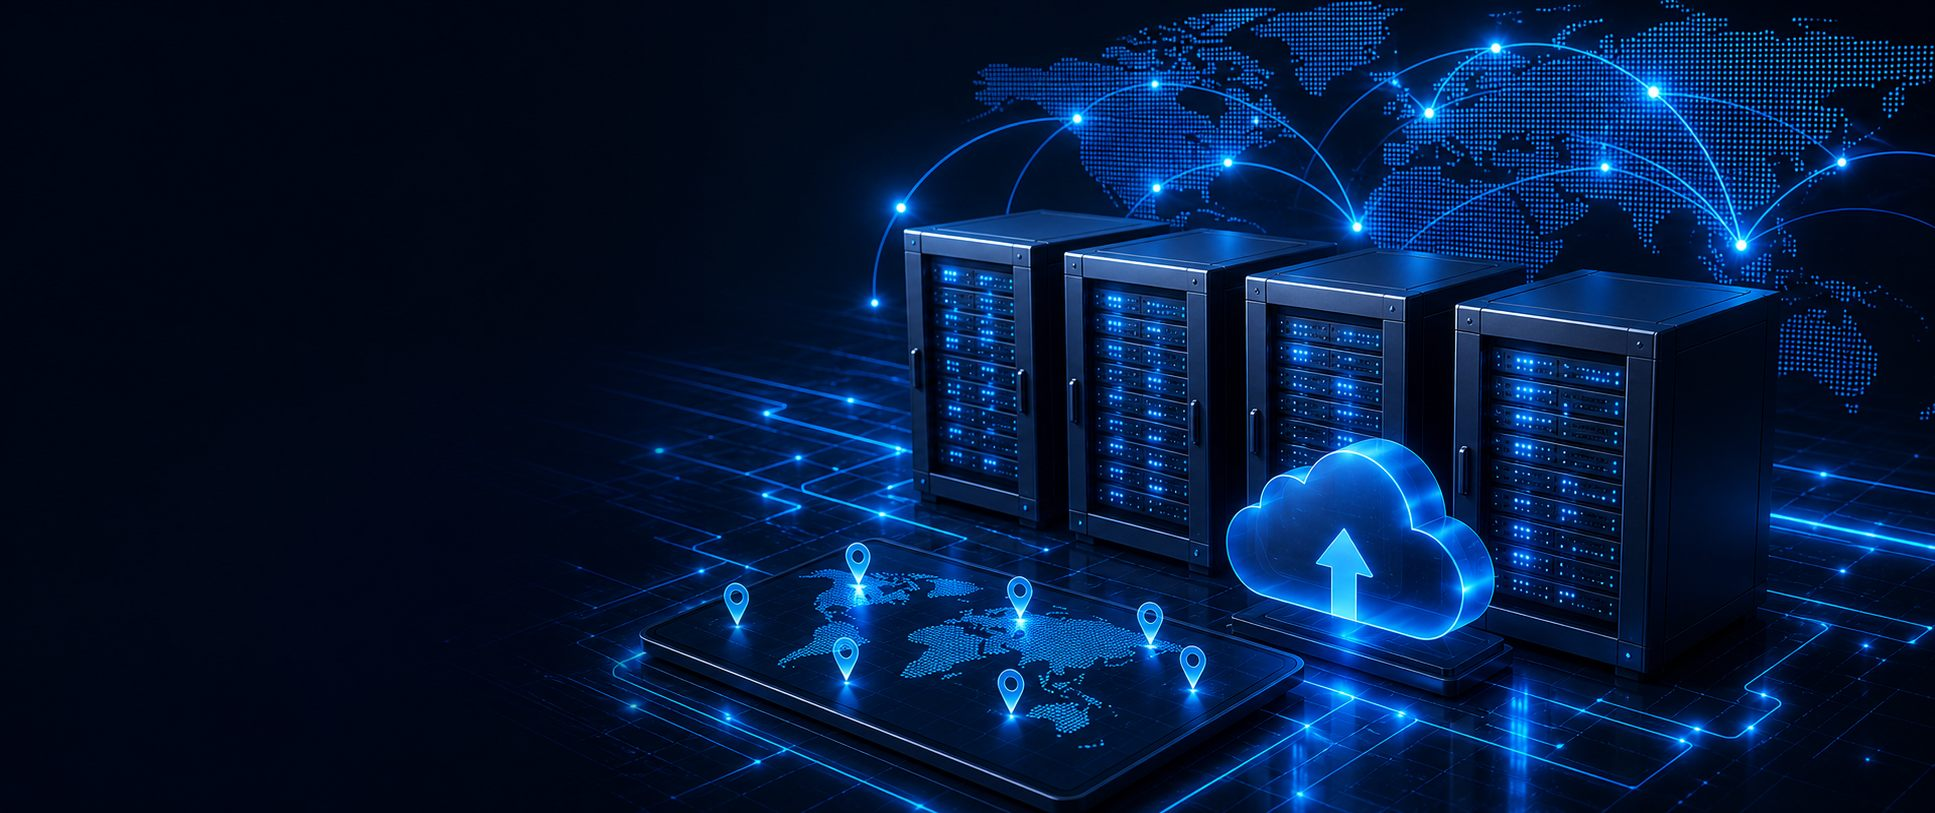
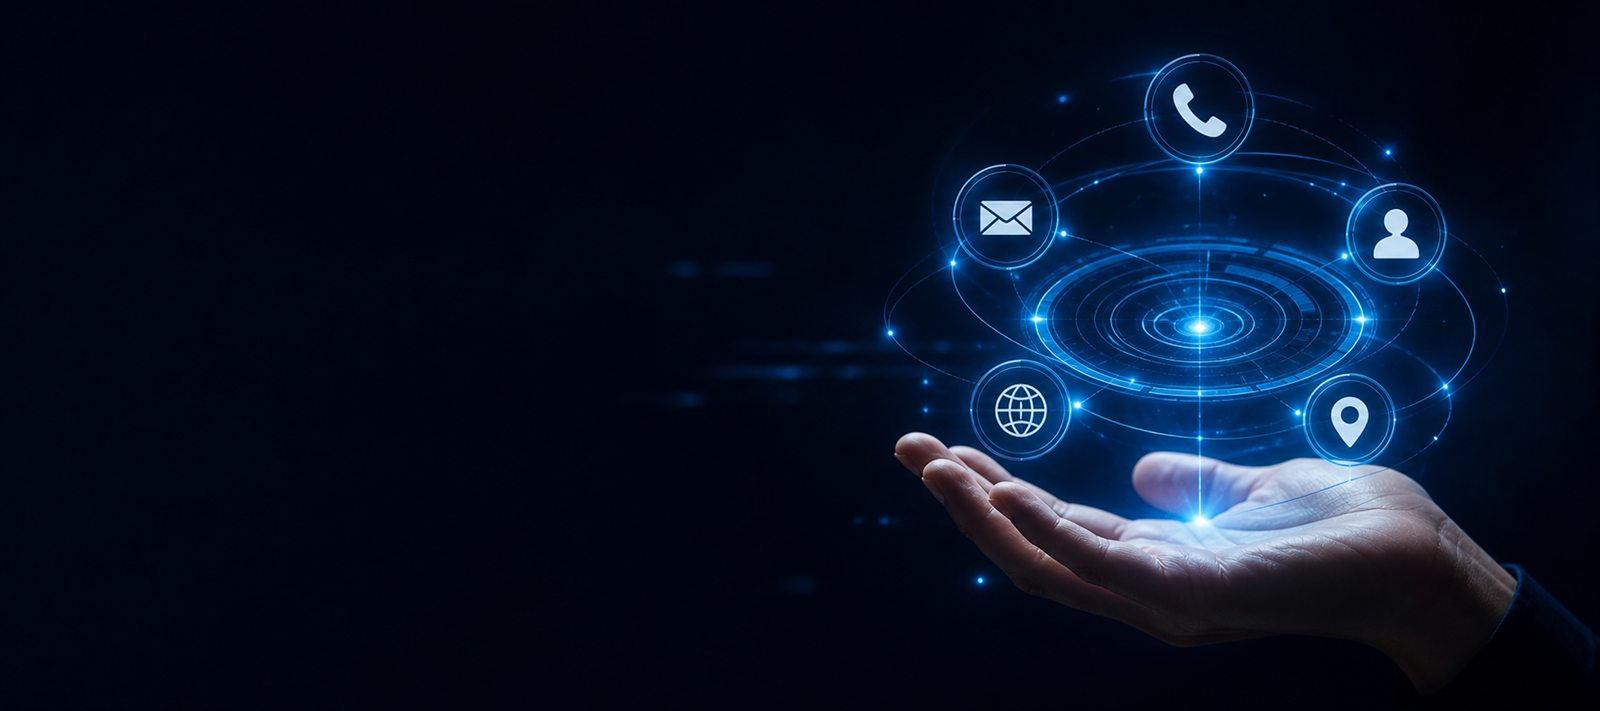
Modified contact us page

diff --git a/src/pages/ContactUsPage.css b/src/pages/ContactUsPage.css
@@ -975,9 +975,9 @@
   width: 720px;
   height: 580px;
   background:
-    radial-gradient(circle at 54% 48%, rgba(0, 210, 255, 0.3), transparent 42%),
-    radial-gradient(circle at 18% 68%, rgba(62, 220, 176, 0.18), transparent 28%),
-    radial-gradient(circle at 78% 18%, rgba(62, 143, 255, 0.24), transparent 34%);
+    radial-gradient(circle at 68% 54%, rgba(46, 188, 255, 0.2), transparent 40%),
+    radial-gradient(circle at 80% 30%, rgba(125, 211, 252, 0.16), transparent 28%),
+    radial-gradient(circle at 52% 68%, rgba(0, 210, 255, 0.12), transparent 26%);
   filter: blur(82px);
 }
 
@@ -993,8 +993,8 @@
   inset: 0;
   z-index: 2;
   background:
-    linear-gradient(90deg, rgba(2, 7, 19, 0.94) 0%, rgba(2, 7, 19, 0.76) 28%, rgba(2, 7, 19, 0.1) 55%, rgba(2, 7, 19, 0) 100%),
-    linear-gradient(180deg, rgba(2, 7, 19, 0.18), rgba(2, 7, 19, 0.22));
+    linear-gradient(90deg, rgba(2, 7, 19, 0.97) 0%, rgba(2, 7, 19, 0.88) 28%, rgba(2, 7, 19, 0.18) 58%, rgba(2, 7, 19, 0.04) 100%),
+    linear-gradient(180deg, rgba(2, 7, 19, 0.12), rgba(2, 7, 19, 0.22));
 }
 
 .contact-render-image {
@@ -1002,10 +1002,25 @@
   inset: 0;
   width: 100%;
   height: 100%;
-  object-fit: cover;
-  object-position: center right;
+  object-fit: contain;
+  object-position: right center;
   user-select: none;
-  filter: saturate(1.08) contrast(1.04);
+  filter: saturate(1.02) contrast(1.06) brightness(0.92);
+  transform: scale(1) translate3d(0, 0, 0);
+  transform-origin: 72% 54%;
+  will-change: transform;
+  animation: contactHeroFloat 10s ease-in-out infinite;
+}
+
+@keyframes contactHeroFloat {
+  0%,
+  100% {
+    transform: scale(1) translate3d(0, 0, 0);
+  }
+
+  50% {
+    transform: scale(1.035) translate3d(-0.8%, -0.4%, 0);
+  }
 }
 
 .contact-rack-dots {
@@ -2617,9 +2632,13 @@
   }
 
   .contact-hero {
-    min-height: auto;
+    min-height: 100svh;
     padding: 98px 20px 48px;
-    gap: 28px;
+    gap: 18px;
+  }
+
+  .hero-content {
+    z-index: 3;
   }
 
   .contact-info-section,
@@ -2692,7 +2711,31 @@
   }
 
   .contact-stage {
-    height: 340px;
+    height: 220px;
+  }
+
+  .contact-stage-showcase {
+    position: absolute;
+    inset: 0;
+    width: auto;
+    margin-top: 0;
+    border-radius: 0;
+    background: transparent;
+    border: none;
+    box-shadow: none;
+  }
+
+  .contact-render-scene::before {
+    background:
+      linear-gradient(180deg, rgba(2, 7, 19, 0.55) 0%, rgba(2, 7, 19, 0.1) 40%, rgba(2, 7, 19, 0.55) 100%),
+      linear-gradient(90deg, rgba(2, 7, 19, 0.88) 0%, rgba(2, 7, 19, 0.3) 40%, rgba(2, 7, 19, 0.0) 100%);
+  }
+
+  .contact-render-image {
+    object-fit: cover;
+    object-position: 72% center;
+    transform-origin: 72% center;
+    animation-duration: 12s;
   }
 
   .contact-visual {
@@ -2756,12 +2799,6 @@
 }
 
 @media (max-width: 780px) {
-  .contact-stage-showcase {
-    inset: 0;
-    height: auto;
-    margin-top: 0;
-  }
-
   .contact-rack-dot--9,
   .contact-rack-dot--10,
   .contact-rack-dot--11,
@@ -2787,8 +2824,13 @@
 
 @media (prefers-reduced-motion: reduce) {
   .contact-glow,
-  .contact-rack-dot {
+  .contact-rack-dot,
+  .contact-render-image {
     animation: none !important;
+  }
+
+  .contact-render-image--secondary {
+    opacity: 0 !important;
   }
 }
 

diff --git a/src/pages/ContactUsPage.tsx b/src/pages/ContactUsPage.tsx
@@ -268,25 +268,11 @@ export default function ContactUsPage() {
 
           <div className="contact-render-scene">
             <img
-              src="/Images/racktrack-contact-hero-v4.webp"
+              src="/Images/racktrack-contact-hero.jpg"
               alt=""
               className="contact-render-image"
               draggable="false"
             />
-            <div className="contact-rack-dots">
-              <span className="contact-rack-dot contact-rack-dot--1" />
-              <span className="contact-rack-dot contact-rack-dot--2" />
-              <span className="contact-rack-dot contact-rack-dot--3" />
-              <span className="contact-rack-dot contact-rack-dot--4" />
-              <span className="contact-rack-dot contact-rack-dot--5" />
-              <span className="contact-rack-dot contact-rack-dot--6" />
-              <span className="contact-rack-dot contact-rack-dot--7" />
-              <span className="contact-rack-dot contact-rack-dot--8" />
-              <span className="contact-rack-dot contact-rack-dot--9" />
-              <span className="contact-rack-dot contact-rack-dot--10" />
-              <span className="contact-rack-dot contact-rack-dot--11" />
-              <span className="contact-rack-dot contact-rack-dot--12" />
-            </div>
           </div>
         </div>
       </section>
